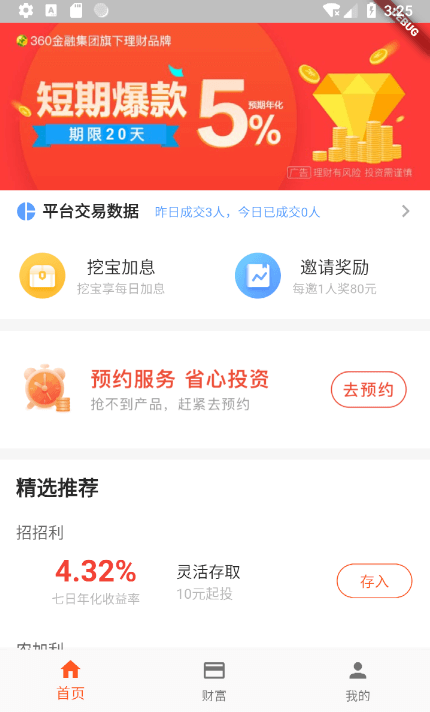
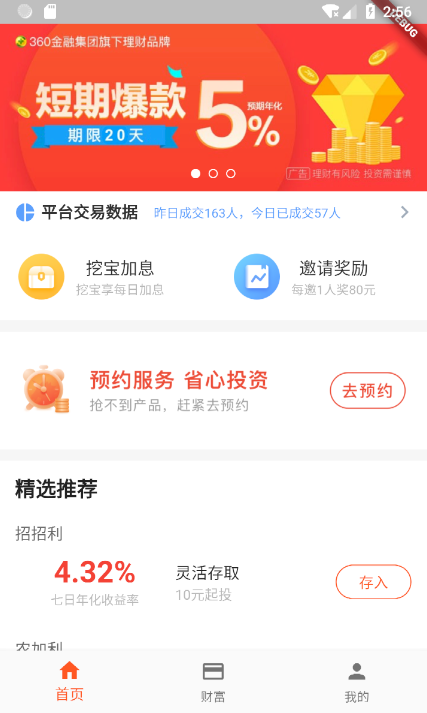
完善轮播

diff --git a/lib/widget/carousel.dart b/lib/widget/carousel.dart
@@ -1,0 +1,104 @@
+
+import 'package:flutter/material.dart';
+
+// Widget代码
+class Carousel extends StatefulWidget {
+
+  final List<Widget>  carouselList;  // 轮播图list
+  final double height;  // 轮播图高度
+  final double tagWidth; // 屏幕宽度
+  final double tagBottom; // 下标 位置
+  final Color tagColor; // 下标 颜色
+  final Color activeTagColor; // 当前 下标 颜色
+  final double tagSize; // 下标大小
+  
+  Carousel({
+    this.height = 150.00,
+    @required this.carouselList,
+    @required this.tagWidth,
+    this.tagBottom = 20.00,
+    this.tagColor = Colors.white,
+    this.activeTagColor = Colors.black,
+    this.tagSize = 10.0,
+  });
+
+  @override
+  State<StatefulWidget> createState() => _Carousel();
+
+}
+
+class _Carousel extends State<Carousel> with SingleTickerProviderStateMixin{
+
+  List _wrapList = <Widget>[];
+
+  // 页面控制器和下标控制器
+  TabController  _tabController;
+  PageController _pageController = PageController(initialPage: 1);
+
+  @override
+  void initState() {
+    // 初始化时把list前后各加一张用于无限轮播
+    _wrapList.insert(0, widget.carouselList[widget.carouselList.length - 1]);
+    _wrapList.addAll(widget.carouselList);
+    _wrapList.add(widget.carouselList[0]);
+    _tabController = TabController(vsync: this, length: widget.carouselList.length);
+    super.initState();
+  }
+
+  @override
+  void dispose() {
+    // 离开需销毁
+    _tabController.dispose();
+    _pageController.dispose();
+    super.dispose();
+  }
+
+  _onPageChanged (idx) {
+    // 轮播实现
+    if (idx == 0) {
+      _pageController.jumpToPage(_wrapList.length - 2);
+      _pageController.animateToPage(
+        _wrapList.length - 2,
+        duration: Duration(microseconds: 666),
+        curve: Curves.fastOutSlowIn
+      );
+    } else if (idx == (_wrapList.length - 1)) {
+      _tabController.animateTo(0);
+      _pageController.jumpToPage(1);
+    } else {
+      _tabController.animateTo(idx - 1);
+    }
+  }
+
+  @override
+  Widget build(BuildContext context) {
+    return Stack(
+      children: <Widget>[
+        Container(
+          height: widget.height,
+          child: PageView(
+            onPageChanged: _onPageChanged,
+            children: _wrapList,
+            controller: _pageController
+          ),
+        ),
+        Positioned(
+          bottom:  widget.tagBottom,
+          child: Container(
+            width: widget.tagWidth,
+            child: Align(
+              alignment: Alignment(0.0, 0.5),
+              child: TabPageSelector(
+                color: widget.tagColor,
+                indicatorSize: widget.tagSize,
+                selectedColor: widget.activeTagColor,
+                controller: _tabController,
+              ),
+            ),
+          )
+        )
+      ],
+    );
+  }
+
+}

diff --git a/lib/page/home/home_page.dart b/lib/page/home/home_page.dart
@@ -1,6 +1,8 @@
 import 'package:flutter/material.dart';
 import 'package:flutter_screenutil/flutter_screenutil.dart';
-import 'package:flutter_app/widget/bank_product.dart';
+import 'package:flutter_app/view/bank_product.dart';
+// 轮播
+import 'package:flutter_app/widget/carousel.dart';
 
 class HomePage extends StatefulWidget {
   @override
@@ -72,7 +74,20 @@ class _HomePageState extends State<HomePage> {
 }
 
 Widget _bannerWidget () {
-  return new Image.asset('assets/images/banner360.jpg', width: ScreenUtil().setWidth(375), height: ScreenUtil().setWidth(146));
+  // 轮播
+  return Carousel(
+    carouselList: <Widget>[
+      new Image.asset('assets/images/banner360_1.jpg', fit: BoxFit.fill),
+      new Image.asset('assets/images/banner360_2.jpg', fit: BoxFit.fill),
+      new Image.asset('assets/images/banner360_3.jpg', fit: BoxFit.fill)
+    ],
+    tagWidth: ScreenUtil().setWidth(375),
+    height: ScreenUtil().setWidth(146),
+    tagBottom: ScreenUtil().setWidth(8),
+    tagColor: Color(0xffff33),
+    activeTagColor: Colors.white,
+    tagSize: ScreenUtil().setWidth(8)
+  );
 }
 
 Widget _displayDataWidget () {

diff --git a/lib/page/treasure/bank_selection_page.dart b/lib/page/treasure/bank_selection_page.dart
@@ -1,6 +1,6 @@
 import 'package:flutter/material.dart';
 import 'package:flutter_screenutil/flutter_screenutil.dart';
-import 'package:flutter_app/widget/bank_product.dart';
+import 'package:flutter_app/view/bank_product.dart';
 
 class BankSelectionPage extends StatefulWidget {
   final item;
